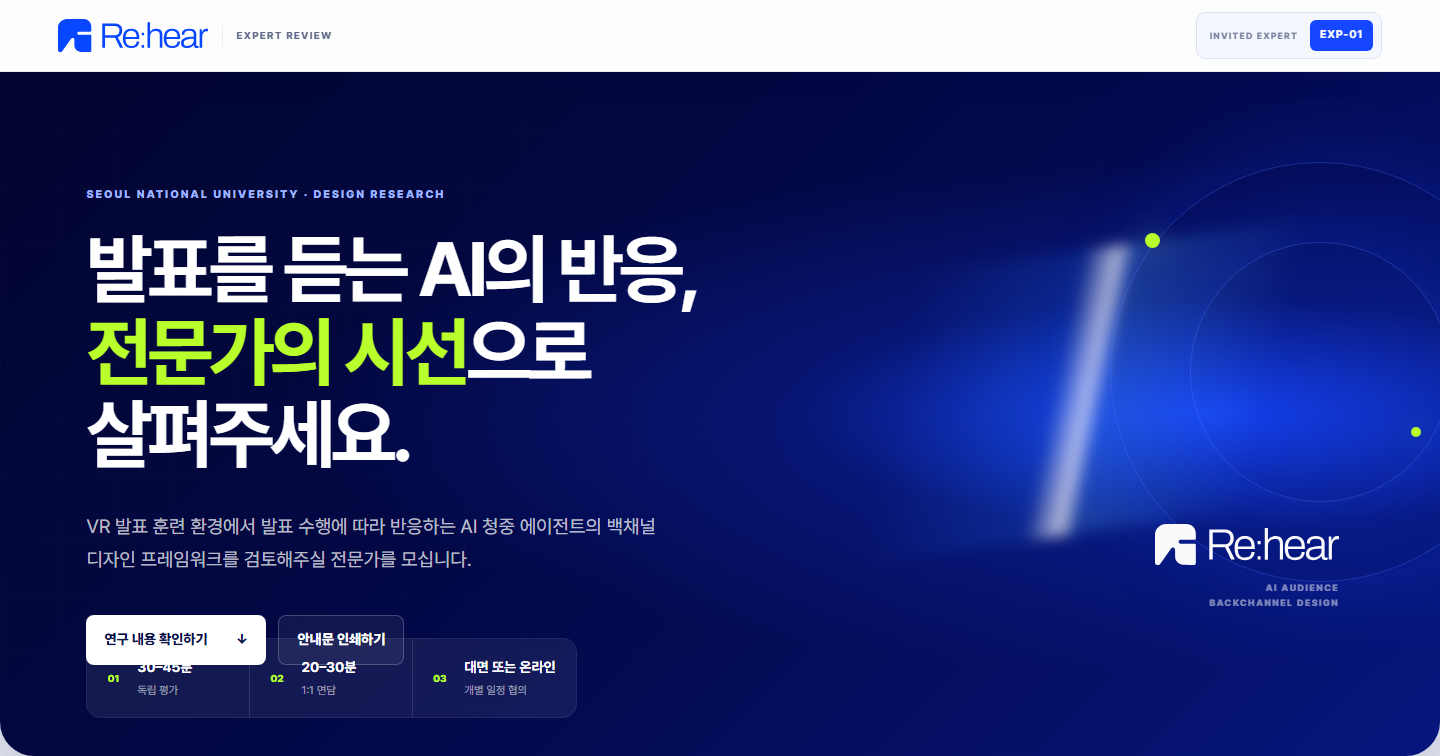
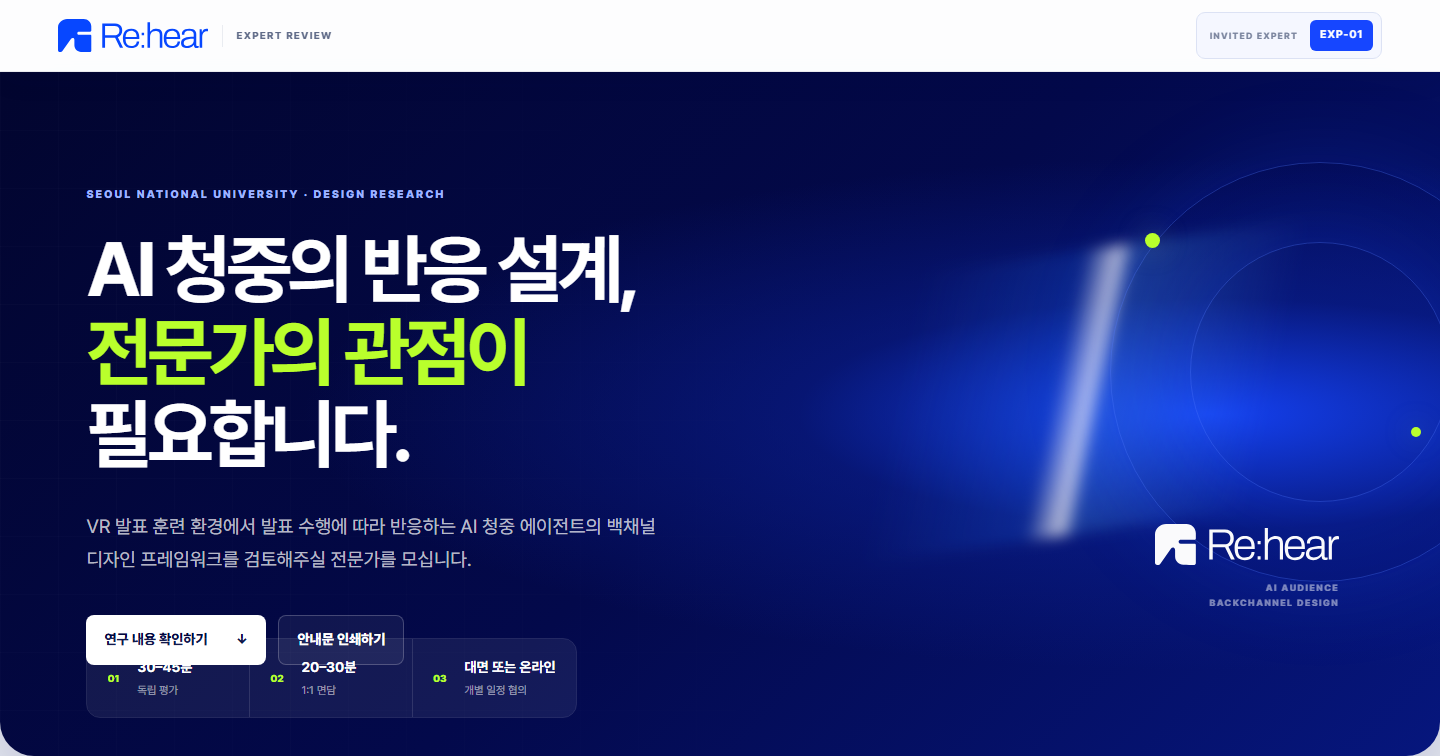
Refine study headline and survey scope

Changed region(s): [[0.0625, 0.3042, 0.5, 0.6389]]

diff --git a/app/globals.css b/app/globals.css
@@ -199,8 +199,8 @@ footer { align-items: center; background: var(--ink); color: rgba(255,255,255,.5
 .field { display: grid; gap: 8px; min-width: 0; }
 .field.full { grid-column: 1 / -1; }
 .field > span, .field-label { color: var(--muted); font-size: 11px; font-weight: 750; letter-spacing: .02em; }
-.field input, .field select, .field textarea, .interview-item textarea { background: #f7f4ed; border: 1px solid rgba(16,43,44,.15); border-radius: 0; color: var(--ink); font: inherit; font-size: 14px; line-height: 1.6; min-width: 0; padding: 13px 14px; resize: vertical; width: 100%; }
-.field input:focus, .field select:focus, .field textarea:focus, .interview-item textarea:focus { border-color: var(--forest); outline: 2px solid rgba(169,214,199,.55); }
+.field input, .field select, .field textarea { background: #f7f4ed; border: 1px solid rgba(16,43,44,.15); border-radius: 0; color: var(--ink); font: inherit; font-size: 14px; line-height: 1.6; min-width: 0; padding: 13px 14px; resize: vertical; width: 100%; }
+.field input:focus, .field select:focus, .field textarea:focus { border-color: var(--forest); outline: 2px solid rgba(169,214,199,.55); }
 .choice-row { display: flex; flex-wrap: wrap; gap: 8px; margin-top: 5px; }
 .choice-chip input { position: absolute; opacity: 0; pointer-events: none; }
 .choice-chip span { border: 1px solid var(--line); cursor: pointer; display: block; font-size: 12px; font-weight: 700; padding: 12px 14px; }
@@ -233,11 +233,6 @@ footer { align-items: center; background: var(--ink); color: rgba(255,255,255,.5
 .overall-number { color: var(--forest); font-size: 10px; font-weight: 850; }
 .overall-item > p { font-size: 14px; line-height: 1.65; margin: 0; word-break: keep-all; }
 .overall-item .field { grid-column: 2 / -1; }
-.interview-list { display: grid; gap: 14px; margin-top: 34px; }
-.interview-item { background: #f7f4ed; display: grid; gap: 12px; grid-template-columns: 36px 1fr; padding: 22px; }
-.interview-item > span { color: var(--forest); font-size: 10px; font-weight: 850; }
-.interview-item > b { font-size: 14px; line-height: 1.65; word-break: keep-all; }
-.interview-item textarea { background: var(--white); grid-column: 2; }
 .export-panel { background: var(--deep); color: var(--white); display: grid; gap: 6vw; grid-template-columns: 1fr auto; margin: 18px auto 0; max-width: 1240px; padding: clamp(30px, 4vw, 54px); }
 .export-panel h3 { font-size: clamp(24px, 3vw, 38px); letter-spacing: -.04em; margin: 0; }
 .export-panel p:last-child { color: rgba(255,255,255,.62); line-height: 1.7; max-width: 680px; }
@@ -332,8 +327,6 @@ footer { align-items: center; background: var(--ink); color: rgba(255,255,255,.5
   .score-picker button { height: 40px; width: 40px; }
   .overall-item { grid-template-columns: 28px 1fr; }
   .overall-item .score-picker, .overall-item .field { grid-column: 1 / -1; }
-  .interview-item { grid-template-columns: 1fr; }
-  .interview-item textarea { grid-column: 1; }
   .export-actions { min-width: 0; }
 }
 
@@ -616,14 +609,14 @@ footer { background: var(--deep); padding: 38px clamp(24px, 5vw, 74px); }
 }
 .form-section legend span, .legend-like > span { background: var(--blue); border: 0; border-radius: 8px; color: #fff; }
 .field > span, .field-label { color: #59647f; }
-.field input, .field select, .field textarea, .interview-item textarea {
+.field input, .field select, .field textarea {
   background: #f7f8fc;
   border-color: #dfe3ee;
   border-radius: 9px;
   min-height: 44px;
 }
-.field input:hover, .field select:hover, .field textarea:hover, .interview-item textarea:hover { border-color: #aebcf0; }
-.field input:focus, .field select:focus, .field textarea:focus, .interview-item textarea:focus { background: #fff; border-color: var(--blue); outline: 3px solid rgba(22,70,255,.12); }
+.field input:hover, .field select:hover, .field textarea:hover { border-color: #aebcf0; }
+.field input:focus, .field select:focus, .field textarea:focus { background: #fff; border-color: var(--blue); outline: 3px solid rgba(22,70,255,.12); }
 .choice-chip span { background: #fff; border-color: #dfe3ef; border-radius: 8px; color: #59647e; }
 .choice-chip input:checked + span { background: var(--blue); border-color: var(--blue); color: #fff; }
 .choice-chip input:focus-visible + span { outline-color: #9fb2ff; }
@@ -642,8 +635,6 @@ footer { background: var(--deep); padding: 38px clamp(24px, 5vw, 74px); }
 .overall-list { border-top-color: #e1e5ef; }
 .overall-item { border-bottom-color: #e1e5ef; }
 .overall-number { color: var(--blue); }
-.interview-item { background: #f4f6fb; border: 1px solid #e2e6f0; border-radius: 12px; }
-.interview-item > span { color: var(--blue); }
 .export-panel { background: linear-gradient(135deg, #030637, #0a1e83); border-radius: 20px; }
 .export-panel p strong { color: var(--lime); }
 .export-actions .button:first-child { background: #fff; color: var(--deep); }

diff --git a/app/expert-review-form.tsx b/app/expert-review-form.tsx
@@ -51,7 +51,6 @@ type ReviewData = {
   };
   ruleEvaluations: RuleEvaluation[];
   overall: Record<string, { score: Score; comment: string }>;
-  interview: string[];
 };
 
 const criteria: Criterion[] = [
@@ -71,19 +70,6 @@ const overallItems = [
   "긍정·중립·비판적 반응의 범위가 발표 훈련 목적에 적절하다.",
   "오탐·불확실성·상충 신호가 발생했을 때의 예외 규칙이 충분하다.",
   "프레임워크를 실제 VR 발표 훈련 시스템에 구현하고 설명할 수 있다.",
-];
-
-const interviewQuestions = [
-  "가장 설득력 있었던 수행정보–백채널 규칙과 그 이유는 무엇입니까?",
-  "의도한 평가 의미가 다른 의미로 오해될 가능성이 큰 규칙은 무엇이며, 어떤 방식으로 바꾸어야 합니까?",
-  "반응 시점·지연·쿨다운 중 실제 사회적 반응성을 가장 크게 좌우하는 요소는 무엇입니까?",
-  "반응 강도·빈도·반응 에이전트 수가 과도하거나 부족하다고 판단한 사례는 무엇입니까?",
-  "내용 수행 정보와 음성·머리 방향 등의 전달 수행 정보가 상충할 때 어떤 우선순위 또는 결합 규칙이 적절합니까?",
-  "오탐 또는 불확실성이 높을 때 반응을 생략하거나 중립 반응으로 전환해야 하는 기준은 무엇입니까?",
-  "현재 프레임워크에서 누락되거나 중복된 수행 정보·평가 차원·백채널 유형은 무엇입니까?",
-  "초보자와 숙련자, 발표 주제 또는 발표 단계에 따라 달라져야 할 규칙은 무엇입니까?",
-  "사용자 실험 전에 반드시 수정해야 할 중대 문제와, 수정 우선순위는 무엇입니까?",
-  "그 밖에 프레임워크 V2와 사용자 실험 설계에 반영해야 할 의견이 있습니까?",
 ];
 
 function newRule(index: number): RuleEvaluation {
@@ -117,7 +103,6 @@ function initialData(participantId: string): ReviewData {
     session: { reviewDate: "", interviewMode: "", recording: "", frameworkVersion: "", ruleSetVersion: "" },
     ruleEvaluations: [newRule(0)],
     overall: Object.fromEntries(overallItems.map((_, index) => [`item${index + 1}`, { score: null, comment: "" }])),
-    interview: interviewQuestions.map(() => ""),
   };
 }
 
@@ -234,7 +219,6 @@ export function ExpertReviewForm({ participantId }: { participantId: string }) {
       flattened[`overall_${index + 1}_score`] = item.score;
       flattened[`overall_${index + 1}_comment`] = item.comment;
     });
-    data.interview.forEach((answer, index) => { flattened[`interview_${index + 1}`] = answer; });
     const headers = Object.keys(flattened);
     const csv = `\uFEFF${headers.map(csvEscape).join(",")}\r\n${headers.map((key) => csvEscape(flattened[key])).join(",")}\r\n`;
     downloadText(`ReHear_${participantId}_review.csv`, csv, "text/csv;charset=utf-8");
@@ -351,19 +335,6 @@ export function ExpertReviewForm({ participantId }: { participantId: string }) {
               <label className="field full"><span>의견</span><textarea rows={2} value={value.comment} onChange={(e) => setData((current) => ({ ...current, overall: { ...current.overall, [key]: { ...value, comment: e.target.value } } }))} /></label>
             </div>;
           })}
-        </div>
-      </fieldset>
-
-      <fieldset className="form-section">
-        <legend><span>05</span> 후속 반구조화 면담 메모</legend>
-        <div className="interview-list">
-          {interviewQuestions.map((question, index) => (
-            <label className="interview-item" key={question}>
-              <span>{String(index + 1).padStart(2, "0")}</span>
-              <b>{question}</b>
-              <textarea rows={4} value={data.interview[index]} onChange={(e) => setData((current) => ({ ...current, interview: current.interview.map((answer, answerIndex) => answerIndex === index ? e.target.value : answer) }))} />
-            </label>
-          ))}
         </div>
       </fieldset>
 

diff --git a/app/layout.tsx b/app/layout.tsx
@@ -21,7 +21,7 @@ export const metadata: Metadata = {
     type: "website",
     locale: "ko_KR",
     title: "ReHear · AI 청중 에이전트 전문가 검토",
-    description: "발표를 듣는 AI의 반응을 함께 검토해주세요.",
+    description: "AI 청중 에이전트의 반응 설계를 전문가의 관점으로 검토해주세요.",
     images: [
       {
         url: "https://boracles.github.io/ReHear_ExpertReview/og.png",
@@ -34,7 +34,7 @@ export const metadata: Metadata = {
   twitter: {
     card: "summary_large_image",
     title: "ReHear · AI 청중 에이전트 전문가 검토",
-    description: "발표를 듣는 AI의 반응을 함께 검토해주세요.",
+    description: "AI 청중 에이전트의 반응 설계를 전문가의 관점으로 검토해주세요.",
     images: ["https://boracles.github.io/ReHear_ExpertReview/og.png"],
   },
 };

diff --git a/app/expert-invitation.tsx b/app/expert-invitation.tsx
@@ -155,11 +155,11 @@ export function ExpertInvitation() {
         <div className="hero-copy">
           <p className="eyebrow light">SEOUL NATIONAL UNIVERSITY · DESIGN RESEARCH</p>
           <h1>
-            발표를 듣는 AI의 반응,
+            AI 청중의 반응 설계,
             <br />
-            <em>전문가의 시선</em>으로
+            <em>전문가의 관점이</em>
             <br />
-            살펴주세요.
+            필요합니다.
           </h1>
           <p className="hero-lead">
             VR 발표 훈련 환경에서 발표 수행에 따라 반응하는 AI 청중 에이전트의
